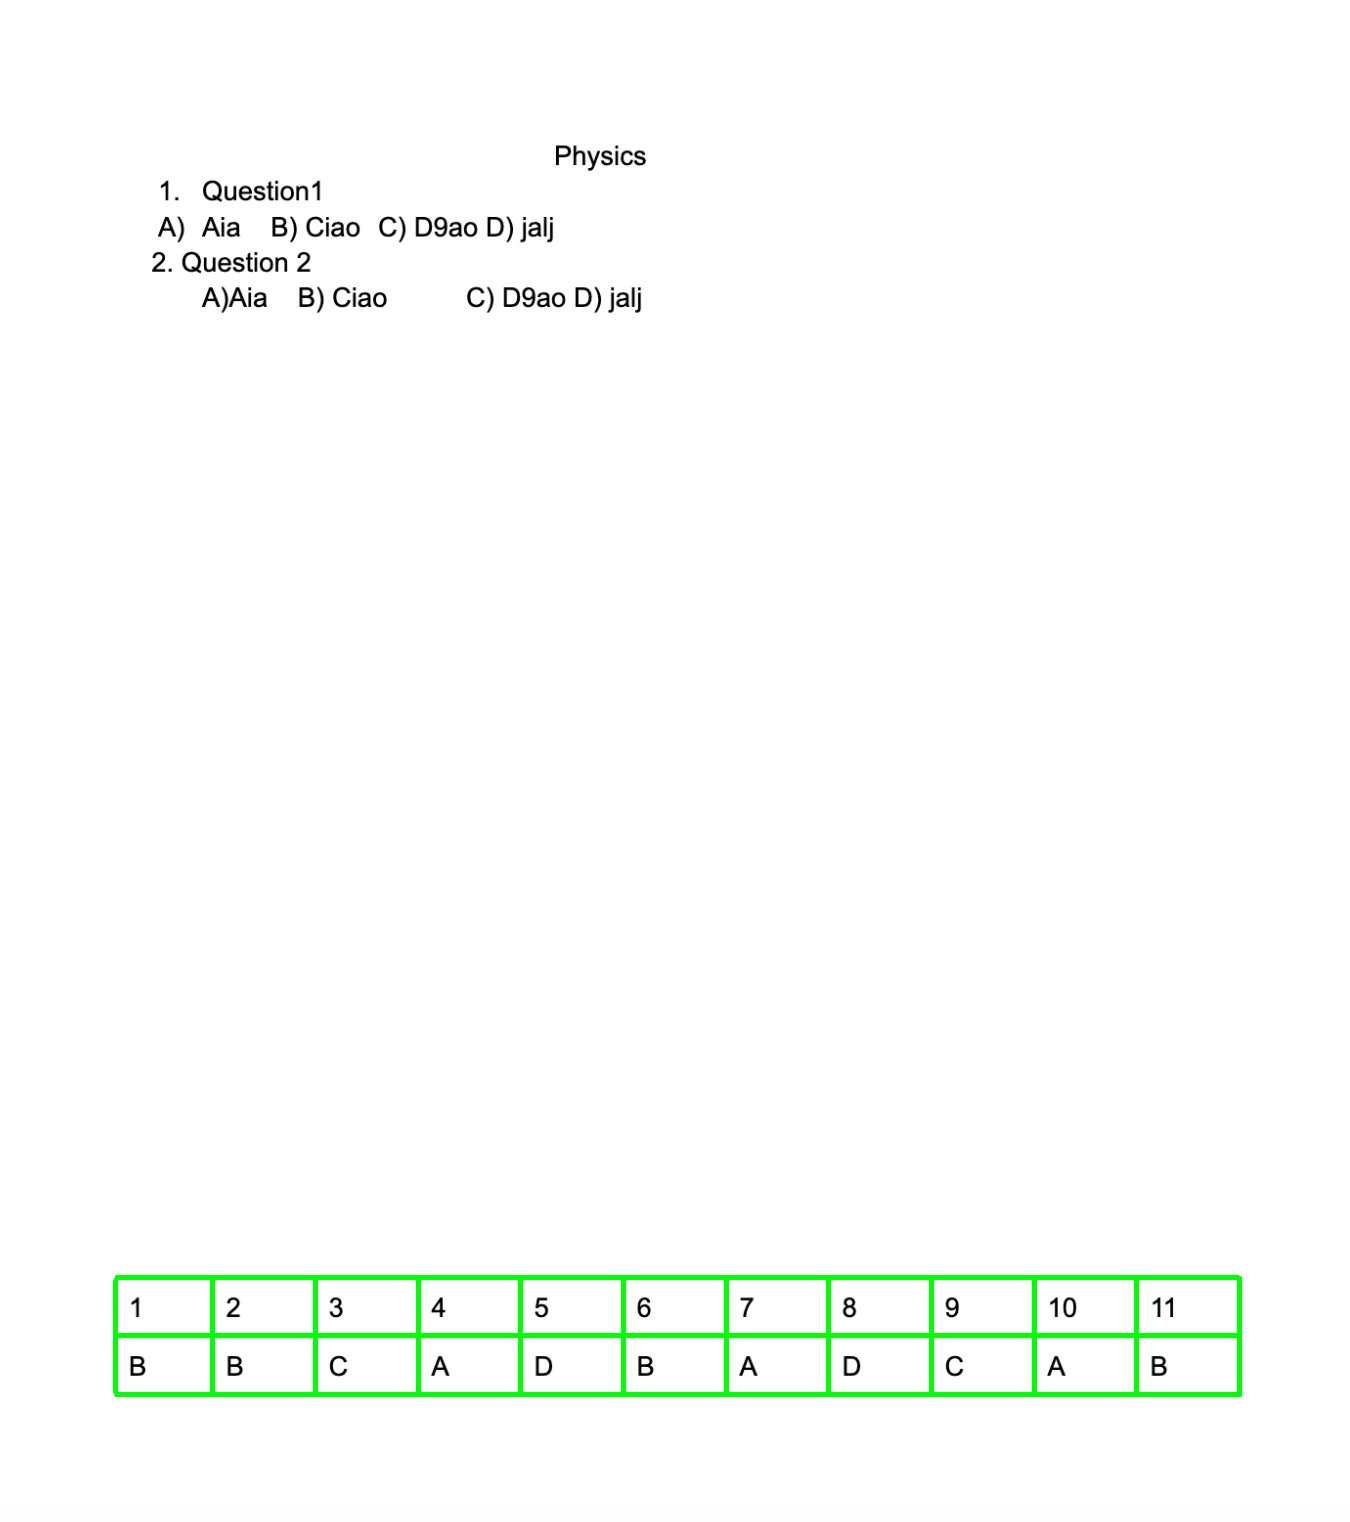
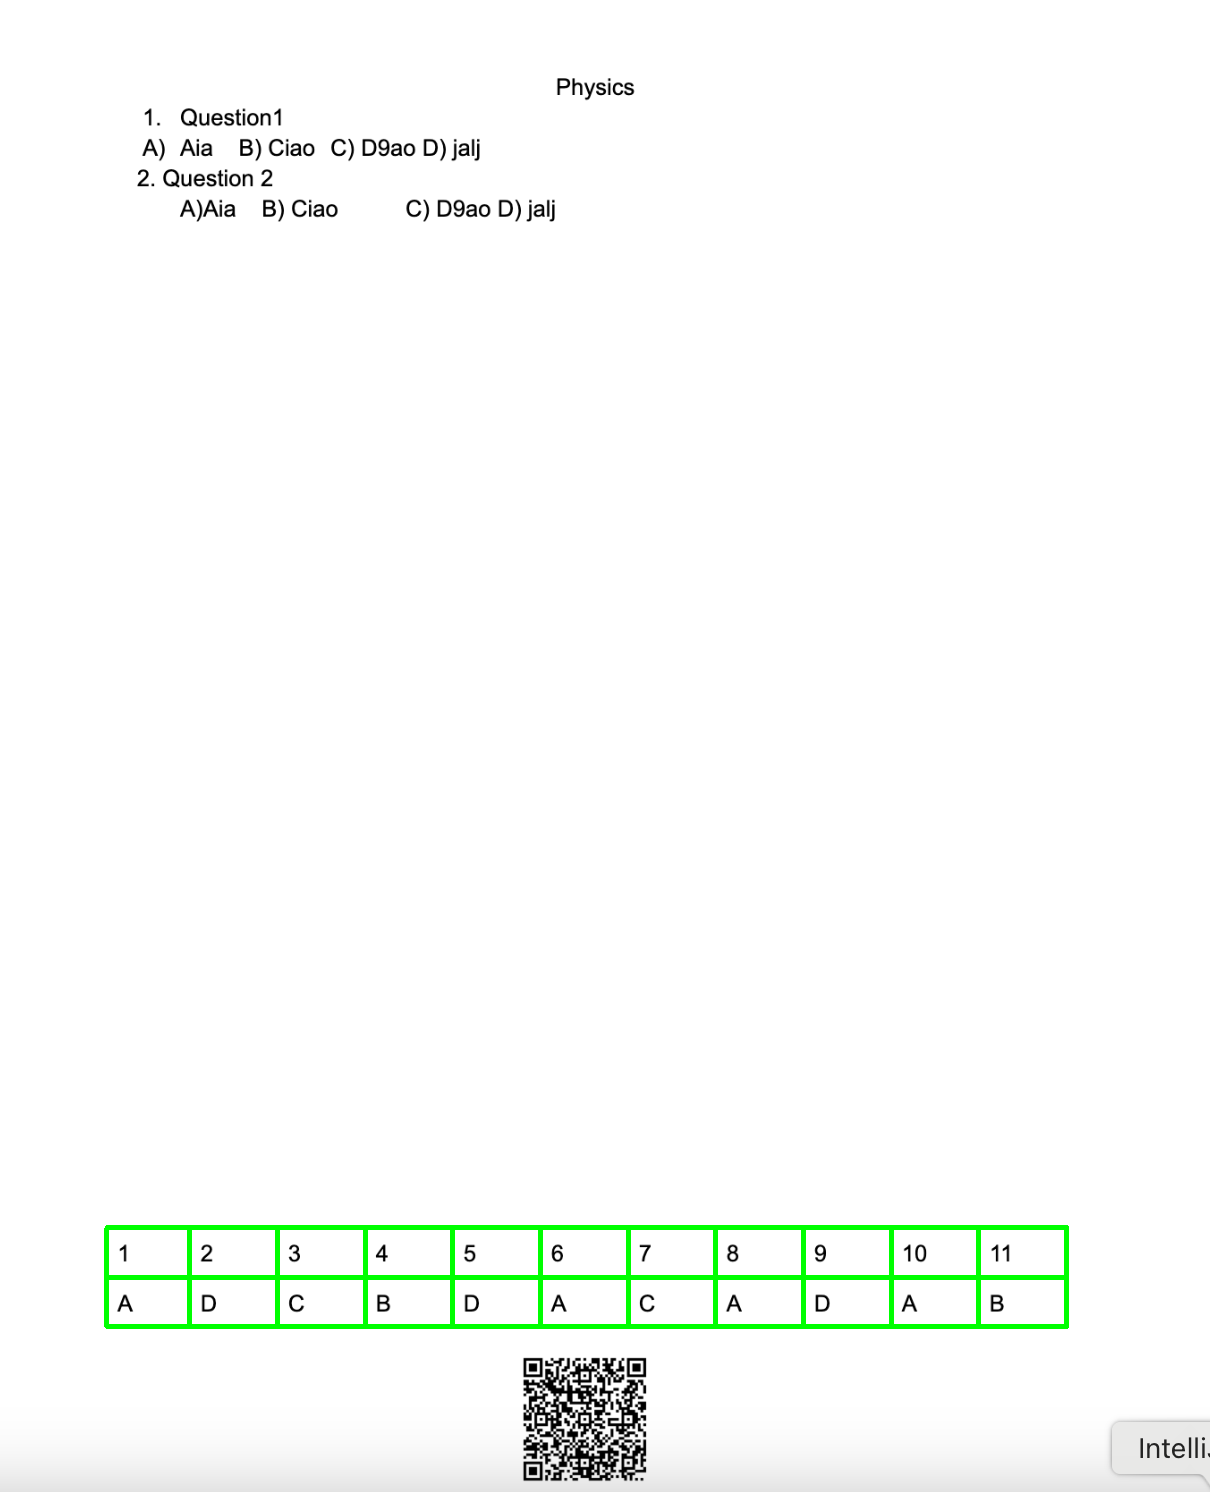
qr integrated

diff --git a/table_detection.py b/table_detection.py
@@ -2,15 +2,24 @@ import numpy as np
 import easyocr
 import cv2
 import pytesseract
+from cryptography.fernet import Fernet
+import qrcode
+import cv2
+from sympy.codegen.ast import continue_
+from validators import between
 
 # import pytesseract
 # from PIL import Image
-
-image = cv2.imread('data sample.png')
+PATH='table4.png'
+image = cv2.imread(PATH)
 # pil_img=Image.open('table sample.png')
 
 
 reader = easyocr.Reader(['en'], gpu=False)
+
+
+fixed_key = b"3QD_AaN0Z4m_AU1qPUgSmv9fUwr2V-g-8hLx0NV3o1w="  # Replace with your fixed key
+cipher = Fernet(fixed_key)
 
 
 def line_sorting(line):
@@ -28,7 +37,19 @@ max_raw_distance = [0]
 min_column_distance = [40000]
 max_column_distance = [0]
 
-mid_row_y = 0;
+mid_row_y = 0
+
+qr_points=[]
+qr_start_x=[400000]
+qr_start_y=[400000]
+qr_end_x=[0]
+qr_end_y=[0]
+
+
+qr_data=[0]
+def check_not_qr(x, y):
+    return not(qr_start_y[0] - 20 <= y <= qr_end_y[0] + 20)
+
 
 
 def vertical_sorting(line):
@@ -46,18 +67,22 @@ def detect_all_lines(points):
     x1, x2 = min(x1, x2), max(x1, x2)
     y1, y2 = min(y1, y2), max(y1, y2)
     if y1 >= 600 and y2 >= 600:
-        if x1 == x2:
-            # x=0
-            vertical_lines.append([int(x1), int(y1), int(x2), int(y2)])
+        # print( (check_qr(x1, y1) and check_qr(x2, y2)),x1,x2)
+        if  (check_not_qr(x1, y1) and check_not_qr(x2, y2)):
+            if x1 == x2:
+                # x=0
+                if y2 - y1 >= 30:
 
-            cv2.line(image, (x1, y1), (x2, y2), (0, 255, 0), 2)
-            lines_list.append([(x1, y1), (x2, y2)])
+                    vertical_lines.append([int(x1), int(y1), int(x2), int(y2)])
 
-        elif y1 == y2:
-            if x2 - x1 >= 400:
-                horizontal_lines.append([int(x1), int(y1), int(x2), int(y2)])
-                cv2.line(image, (x1, y1), (x2, y2), (0, 255, 0), 2)
-                lines_list.append([(x1, y1), (x2, y2)])
+                    cv2.line(image, (x1, y1), (x2, y2), (0, 255, 0), 2)
+                    lines_list.append([(x1, y1), (x2, y2)])
+
+            elif y1 == y2:
+                if x2 - x1 >= 400:
+                    horizontal_lines.append([int(x1), int(y1), int(x2), int(y2)])
+                    cv2.line(image, (x1, y1), (x2, y2), (0, 255, 0), 2)
+                    lines_list.append([(x1, y1), (x2, y2)])
 
 
 def calculating_column_distance(vertical_lines):
@@ -81,22 +106,73 @@ def recognizing_text(path):
     # Load the image
     image = cv2.imread(path)
 
+    image = cv2.resize(image, None, fx=2, fy=2, interpolation=cv2.INTER_LINEAR)
     # Convert to grayscale
-    gray = cv2.cvtColor(image, cv2.COLOR_BGR2GRAY)
+    gray_image = cv2.cvtColor(image, cv2.COLOR_BGR2GRAY)
 
-    # Apply adaptive thresholding for better contrast
-    binary_image = cv2.adaptiveThreshold(gray, 255, cv2.ADAPTIVE_THRESH_GAUSSIAN_C,
-                                         cv2.THRESH_BINARY, 11, 2)
+    # Enhance contrast using CLAHE (Contrast Limited Adaptive Histogram Equalization)
+    clahe = cv2.createCLAHE(clipLimit=2.0, tileGridSize=(8, 8))
+    enhanced_image = clahe.apply(gray_image)
 
-    # Optionally, invert the image if text is black on a white background
-    inverted_image = cv2.bitwise_not(binary_image)
+    # Apply Gaussian Blur to reduce noise before thresholding
+    blurred_image = cv2.GaussianBlur(enhanced_image, (5, 5), 0)
+
+    # Apply binary thresholding for better text isolation
+    _, binary_image = cv2.threshold(blurred_image, 0, 255, cv2.THRESH_BINARY + cv2.THRESH_OTSU)
+
+    # Morphological operations to remove small noise (e.g., speckles)
+    kernel = cv2.getStructuringElement(cv2.MORPH_RECT, (2, 2))
+    processed_image = cv2.morphologyEx(binary_image, cv2.MORPH_CLOSE, kernel)
 
     # Perform OCR with Tesseract
-    config = "--oem 3 --psm 10 -c tessedit_char_whitelist=ABCD0123456789"  # Alphanumeric whitelist
-    text = pytesseract.image_to_string(inverted_image, config=config)
+    config = "--oem 3 --psm 10 -c tessedit_char_whitelist=0123456789ABCD"  # Alphanumeric whitelist
+    text = pytesseract.image_to_string(processed_image, config=config)
     return text.strip()
 
 
+def generate_qr_code(message, qr_path="secret_message.png"):
+    encrypted_message = cipher.encrypt(message.encode())
+    print(f"Encrypted Message: {encrypted_message.decode()}")
+
+    qr = qrcode.QRCode(
+        version=1,
+        error_correction=qrcode.constants.ERROR_CORRECT_L,
+        box_size=10,
+        border=4,
+    )
+    qr.add_data(encrypted_message.decode())
+    qr.make(fit=True)
+
+    img = qr.make_image(fill_color="black", back_color="white")
+    img.save(qr_path)
+    print(f"QR code saved as {qr_path}")
+
+
+def decode_qr_code(qr_path=PATH):
+    image = cv2.imread(qr_path)
+    detector = cv2.QRCodeDetector()
+
+    decrypted_data, points, _ = detector.detectAndDecode(image)
+    for i in points[0]:
+        qr_start_x[0]=min(qr_start_x[0],i[0])
+        qr_end_x[0]=max(qr_end_x[0],i[0])
+        qr_start_y[0]=min(qr_start_y[0],i[1])
+        qr_end_y[0]=max(qr_end_y[0],i[1])
+
+    print(qr_start_x[0],qr_end_x[0],qr_start_y[0],qr_end_y[0])
+    if not decrypted_data:
+        print("No QR code found in the image.")
+        return
+
+    print(f"Encrypted Message from QR Code: {decrypted_data}")
+
+    decrypted_message = cipher.decrypt(decrypted_data.encode())
+
+    qr_data.append(decrypted_message.decode().split(" "))
+    print(qr_data)
+    print(f"Decrypted Message: {decrypted_message.decode()}")
+
+decode_qr_code()
 # Read image
 
 # Convert image to grayscale
@@ -109,9 +185,9 @@ lines = cv2.HoughLinesP(
     edges,  # Input edge image
     1,  # Distance resolution in pixels
     np.pi / 180,  # Angle resolution in radians
-    threshold=100,  # Min number of votes for valid line
-    minLineLength=5,  # Min allowed length of line
-    maxLineGap=10  # Max allowed gap between line for joining them
+    threshold=60,  # Min number of votes for valid line
+    minLineLength=3,  # Min allowed length of line
+    maxLineGap=5  # Max allowed gap between line for joining them
 )
 
 for points in lines:
@@ -149,7 +225,7 @@ def removing_duplicate_horizontals(horizontal_lines):
             new_list.append(horizontal_lines[i])
 
     return new_list
-
+print(horizontal_lines)
 
 horizontal_lines=removing_duplicate_horizontals(horizontal_lines)
 vertical_lines=removing_duplicate_verticals(vertical_lines)
@@ -159,8 +235,10 @@ calculating_column_distance(vertical_lines)
 
 calculating_row_distance(horizontal_lines)
 qn = 1
-# print(horizontal_lines)
-# print(len(vertical_lines))
+
+print(vertical_lines)
+print(horizontal_lines)
+correct_ans=0
 for i in range(len(vertical_lines) - 1):
     x1_0, y1_0, x2_0, y2_0 = vertical_lines[i]
     x1_1, y1_1, x2_1, y2_1 = vertical_lines[i + 1]
@@ -168,8 +246,8 @@ for i in range(len(vertical_lines) - 1):
     crop1 = image[y1_0 + 5:mid_row_y - 5, x1_0 + 5:x1_1-5]
     crop2 = image[mid_row_y + 5:y2_1 - 5, x1_0 + 5:x1_1-5]
 
-    result1 = reader.readtext(image=crop1)
-    result2 = reader.readtext(image=crop2)
+    # result1 = reader.readtext(image=crop1)
+    # result2 = reader.readtext(image=crop2)
     # pil_crop1 = Image.fromarray(cv2.cvtColor(crop1, cv2.COLOR_BGR2RGB))
     # pil_crop2 = Image.fromarray(cv2.cvtColor(crop2, cv2.COLOR_BGR2RGB))
 
@@ -183,8 +261,15 @@ for i in range(len(vertical_lines) - 1):
     cv2.imwrite(f"crop{qn}|2.jpg", crop2)
     text1 = recognizing_text(f"crop{qn}|1.jpg")
     text2 = recognizing_text(f"crop{qn}|2.jpg")
+    d,s=qr_data[1][qn-1].split('.')
+
+    if d==(str)(qn) and s==text2:
+        correct_ans+=1
     qn += 1
     print(text1, text2, end=" , ")
+print(correct_ans)
+
+# decode_qr_code()
 
 # print(min_x, min_y)
 # print(vertical_lines)
@@ -193,5 +278,5 @@ for i in range(len(vertical_lines) - 1):
 # print(horizontal_lines)
 # print(len(horizontal_lines))
 #
-# print(min_column_distance, max_column_distance)
+# print(min_column_distance, max_column_dstance)
 # print(min_raw_distance, max_raw_distance)

diff --git a/test1.py b/test1.py
@@ -1,34 +1,52 @@
-from PIL import Image, ImageEnhance, ImageOps
-import pytesseract
 
-# Path to Tesseract
-pytesseract.pytesseract.tesseract_cmd = r'/opt/homebrew/bin/tesseract'  # Update for your setup
+from cryptography.fernet import Fernet
+import qrcode
+import cv2
 
-# Load the image
-image_path = 'data sample.png'  # Replace with your image path
-image = Image.open(image_path)
+fixed_key = b"3QD_AaN0Z4m_AU1qPUgSmv9fUwr2V-g-8hLx0NV3o1w="  # Replace with your fixed key
+cipher = Fernet(fixed_key)
 
-# Step 1: Crop the bottom table area (adjust crop values if needed)
-width, height = image.size
-table_area = image.crop((0, int(height * 0.8), width, height))  # Bottom 20% of the image
-table_area.save('debug_cropped_table.png')  # Save cropped image for debugging
+#
+# def generate_qr_code(message, qr_path="secret_message.png"):
+#     encrypted_message = cipher.encrypt(message.encode())
+#     print(f"Encrypted Message: {encrypted_message.decode()}")
+#
+#     qr = qrcode.QRCode(
+#         version=1,
+#         error_correction=qrcode.constants.ERROR_CORRECT_L,
+#         box_size=10,
+#         border=4,
+#     )
+#     qr.add_data(encrypted_message.decode())
+#     qr.make(fit=True)
+#
+#     img = qr.make_image(fill_color="black", back_color="white")
+#     img.save(qr_path)
+#     print(f"QR code saved as {qr_path}")
+#
 
-# Step 2: Preprocess the image
-gray_image = ImageOps.grayscale(table_area)  # Convert to grayscale
-threshold_image = gray_image.point(lambda x: 0 if x < 140 else 255, '1')  # Apply binary threshold
-threshold_image.save('debug_processed_table.png')  # Save processed image for debugging
+def decode_qr_code(qr_path="revised_photo.png"):
+    image = cv2.imread(qr_path)
+    detector = cv2.QRCodeDetector()
 
-# Step 3: Extract text using OCR
-custom_config = r'--psm 6'  # Assume uniform block of text
-table_text = pytesseract.image_to_string(threshold_image, config=custom_config)
+    decrypted_data, points, _ = detector.detectAndDecode(image)
+    print(points[0])
+    for i in points[0]:
+        print((int)(i[0]),(int)(i[1]))
+    # print(points)
+    if not decrypted_data:
+        print("No QR code found in the image.")
+        return
 
-# Step 4: Debug and process extracted text
-print("Raw OCR Output:")
-print(table_text)  # Print the raw output to debug
-lines = table_text.split('\n')
-table_values = [line.strip() for line in lines if line.strip()]  # Remove empty lines
+    print(f"Encrypted Message from QR Code: {decrypted_data}")
 
-# Step 5: Output the results
-print("Extracted Table Values:")
-for line in table_values:
-    print(line)
+    decrypted_message = cipher.decrypt(decrypted_data.encode())
+    print(f"Decrypted Message: {decrypted_message.decode()}")
+
+
+if __name__ == "__main__":
+    # Encrypt and generate QR code
+    # generate_qr_code("1.A 2.B 3.C")
+
+    # Decode the QR code and decrypt the message
+    decode_qr_code()

diff --git a/qr.py b/qr.py
@@ -1,0 +1,49 @@
+
+from cryptography.fernet import Fernet
+import qrcode
+import cv2
+
+fixed_key = b"3QD_AaN0Z4m_AU1qPUgSmv9fUwr2V-g-8hLx0NV3o1w="  # Replace with your fixed key
+cipher = Fernet(fixed_key)
+
+
+def generate_qr_code(message, qr_path="secret_message.png"):
+    encrypted_message = cipher.encrypt(message.encode())
+    print(f"Encrypted Message: {encrypted_message.decode()}")
+
+    qr = qrcode.QRCode(
+        version=1,
+        error_correction=qrcode.constants.ERROR_CORRECT_L,
+        box_size=10,
+        border=4,
+    )
+    qr.add_data(encrypted_message.decode())
+    qr.make(fit=True)
+
+    img = qr.make_image(fill_color="black", back_color="white")
+    img.save(qr_path)
+    print(f"QR code saved as {qr_path}")
+
+
+def decode_qr_code(qr_path="secret_message.png"):
+    image = cv2.imread(qr_path)
+    detector = cv2.QRCodeDetector()
+
+    decrypted_data, points, _ = detector.detectAndDecode(image)
+
+    if not decrypted_data:
+        print("No QR code found in the image.")
+        return
+
+    print(f"Encrypted Message from QR Code: {decrypted_data}")
+
+    decrypted_message = cipher.decrypt(decrypted_data.encode())
+    print(f"Decrypted Message: {decrypted_message.decode()}")
+
+
+if __name__ == "__main__":
+    # Encrypt and generate QR code
+    generate_qr_code("1.A 2.A 3.A 4.A 5.A 6.A 7.A 8.A 9.A 10.A 11.A")
+
+    # Decode the QR code and decrypt the message
+    decode_qr_code()

diff --git a/qr1.py b/qr1.py
@@ -1,0 +1,16 @@
+import cv2
+from pyzbar.pyzbar import decode
+
+# Step 1: Load the QR code image
+image_path = "secret_message.png"  # Path to the QR code image
+image = cv2.imread(image_path)
+
+# Step 2: Decode the QR code
+decoded_objects = decode(image)
+
+# Step 3: Extract and print the text
+if decoded_objects:
+    for obj in decoded_objects:
+        print("Decoded Text:", obj.data.decode())  # Convert bytes to string
+else:
+    print("No QR code detected in the image.")
